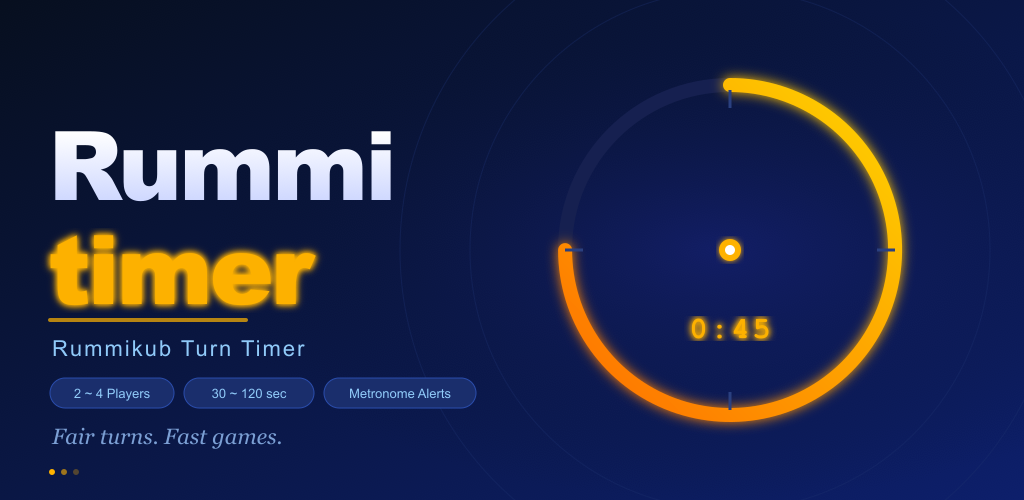
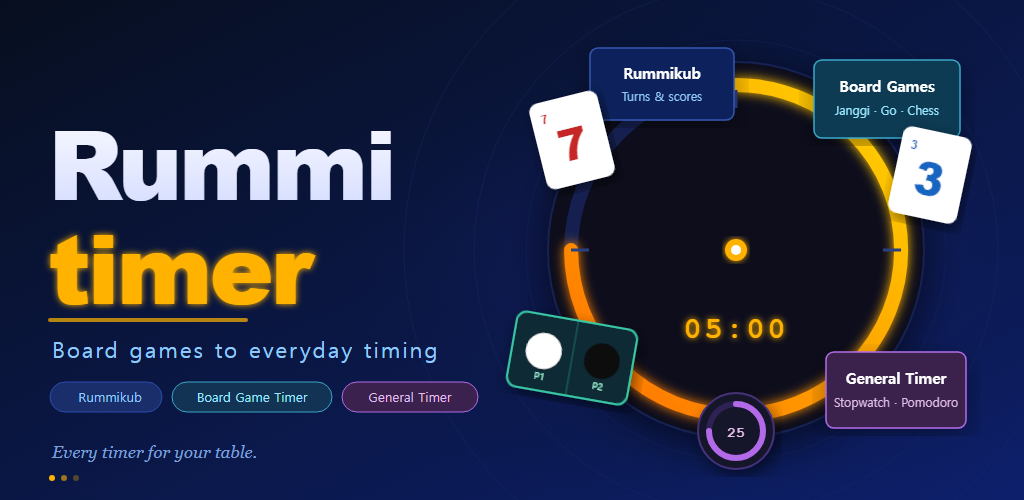
store feature graphic 다국어 버전 추가

diff --git a/context-notes.md b/context-notes.md
@@ -34,3 +34,11 @@
 - 앱 이름 `Rummitimer`와 기존 어두운 블루 배경, 노란 진행 링은 유지해 브랜드 연속성을 살림.
 - 오른쪽 메인 원형 타이머는 유지하되, 주변에 루미큐브 타일, 2인 보드게임 시계, 일반 타이머 미니 카드를 배치해 기능 확장을 시각적으로 전달함.
 - Google Play 업로드용 실제 이미지 파일도 필요하므로 `store_assets/feature_graphic.svg`에서 `store_assets/feature_graphic.png`를 1024×500으로 재생성함.
+
+## 다국어 버전 결정 사항
+
+- 기존 `feature_graphic_en.svg/png`는 이전 루미큐브 전용 디자인이므로 최신 다기능 레이아웃으로 교체함.
+- 새 파일명은 `feature_graphic_ja`, `feature_graphic_de`, `feature_graphic_es`, `feature_graphic_nl` 패턴으로 둠.
+- 앱명 `Rummitimer`, 숫자 타이머, P1/P2 표기는 모든 언어에서 공통으로 유지함.
+- 기능 카드와 칩, 서브타이틀, 태그라인만 언어별로 현지화함.
+- 첫 렌더링 확인에서 일부 한국어 조사 잔여와 상단 카드 텍스트 겹침을 발견해, 긴 문구 우선 치환으로 재생성하고 상단 카드 위치를 오른쪽으로 조정함.

diff --git a/plan.md b/plan.md
@@ -48,3 +48,24 @@
 
 - SVG XML 파싱 확인
 - 변경 diff 확인
+
+---
+
+# 스토어 feature graphic 다국어 버전
+
+## 목표
+
+최신 feature graphic 디자인을 영어, 일본어, 독일어, 스페인어, 네덜란드어 스토어 등록용 파일로 확장한다.
+
+## 작업
+
+1. `feature_graphic_en.svg/png`를 최신 다기능 디자인으로 교체
+2. `feature_graphic_ja.svg/png`, `feature_graphic_de.svg/png`, `feature_graphic_es.svg/png`, `feature_graphic_nl.svg/png` 신규 생성
+3. 기능 카드, 칩, 서브타이틀, 태그라인을 언어별로 현지화
+4. 각 PNG를 1024×500으로 렌더링
+
+## 검증
+
+- 전체 SVG XML 파싱 확인
+- 전체 PNG 크기 1024×500 확인
+- 다국어 렌더링 이미지 육안 확인

diff --git a/checklist.md b/checklist.md
@@ -23,3 +23,17 @@
 - [x] PNG 1024×500 크기 검증
 - [x] 렌더링 이미지 육안 확인
 - [x] 변경 diff 확인
+
+## 스토어 feature graphic 다국어 버전 체크리스트
+
+- [x] 기존 한국어 SVG와 영어 SVG 구조 확인
+- [x] 언어별 파일명 규칙 결정
+- [x] 영어 SVG/PNG 갱신
+- [x] 일본어 SVG/PNG 생성
+- [x] 독일어 SVG/PNG 생성
+- [x] 스페인어 SVG/PNG 생성
+- [x] 네덜란드어 SVG/PNG 생성
+- [x] 전체 SVG XML 파싱 검증
+- [x] 전체 PNG 1024×500 크기 검증
+- [x] 렌더링 이미지 육안 확인
+- [x] 변경 diff 확인
